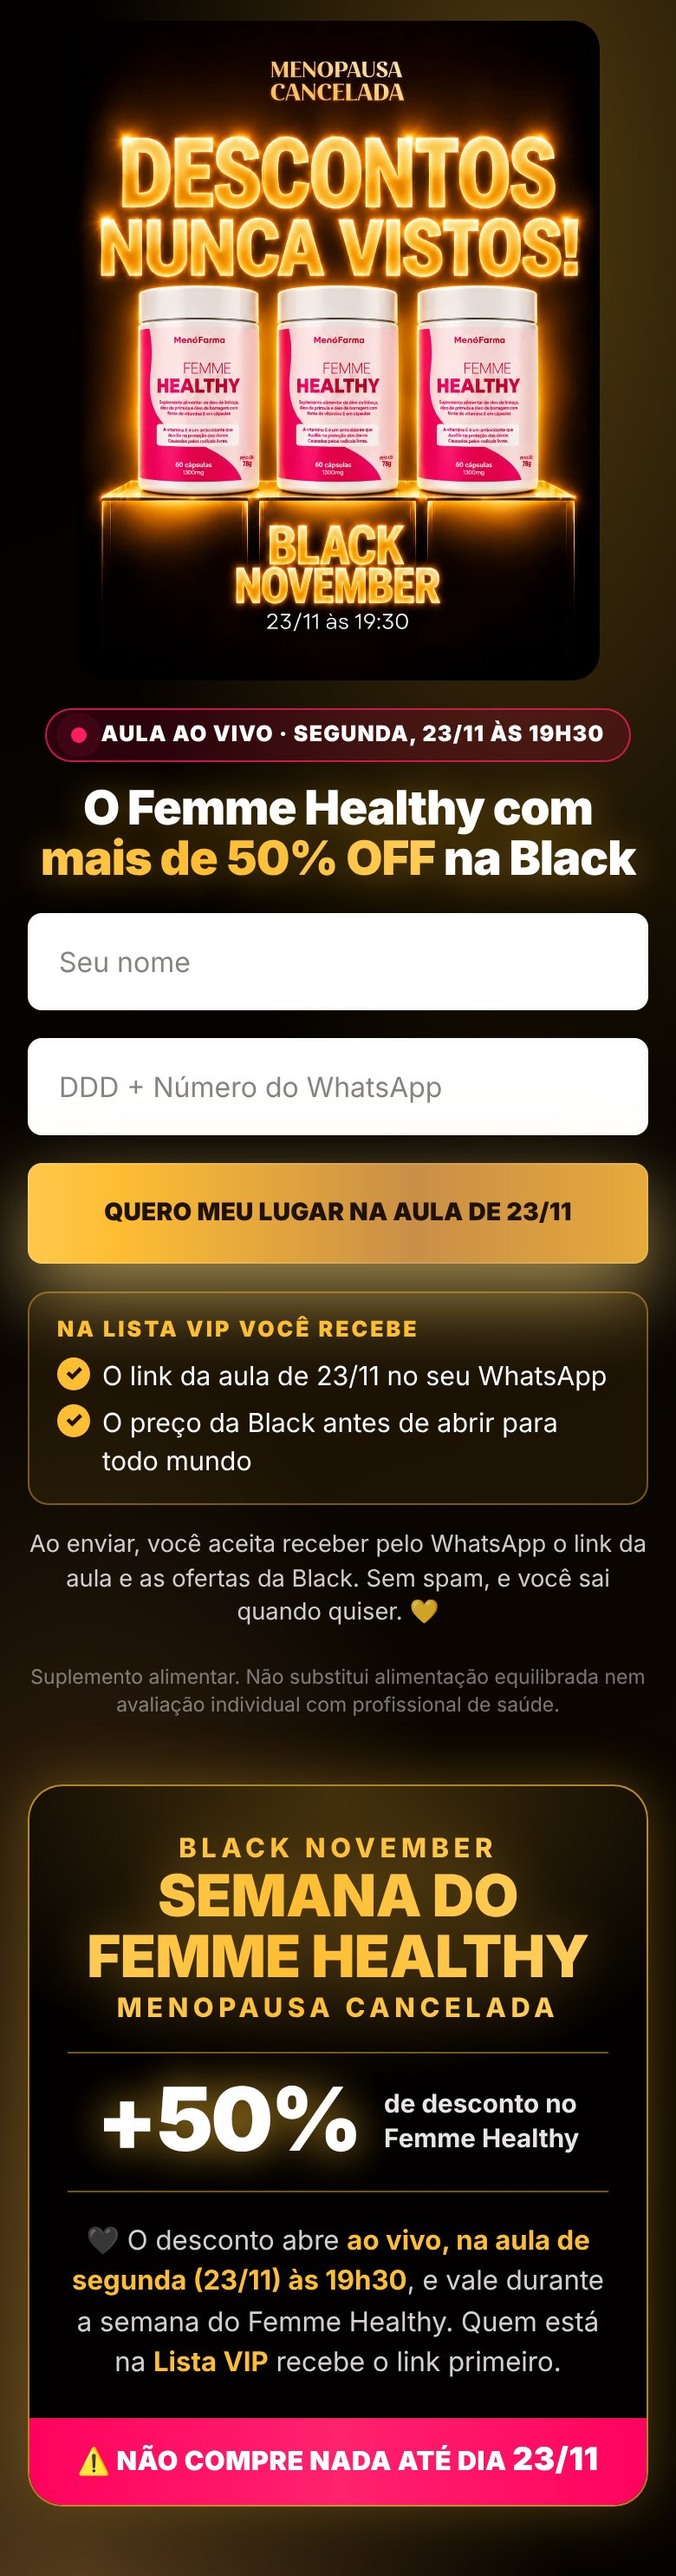
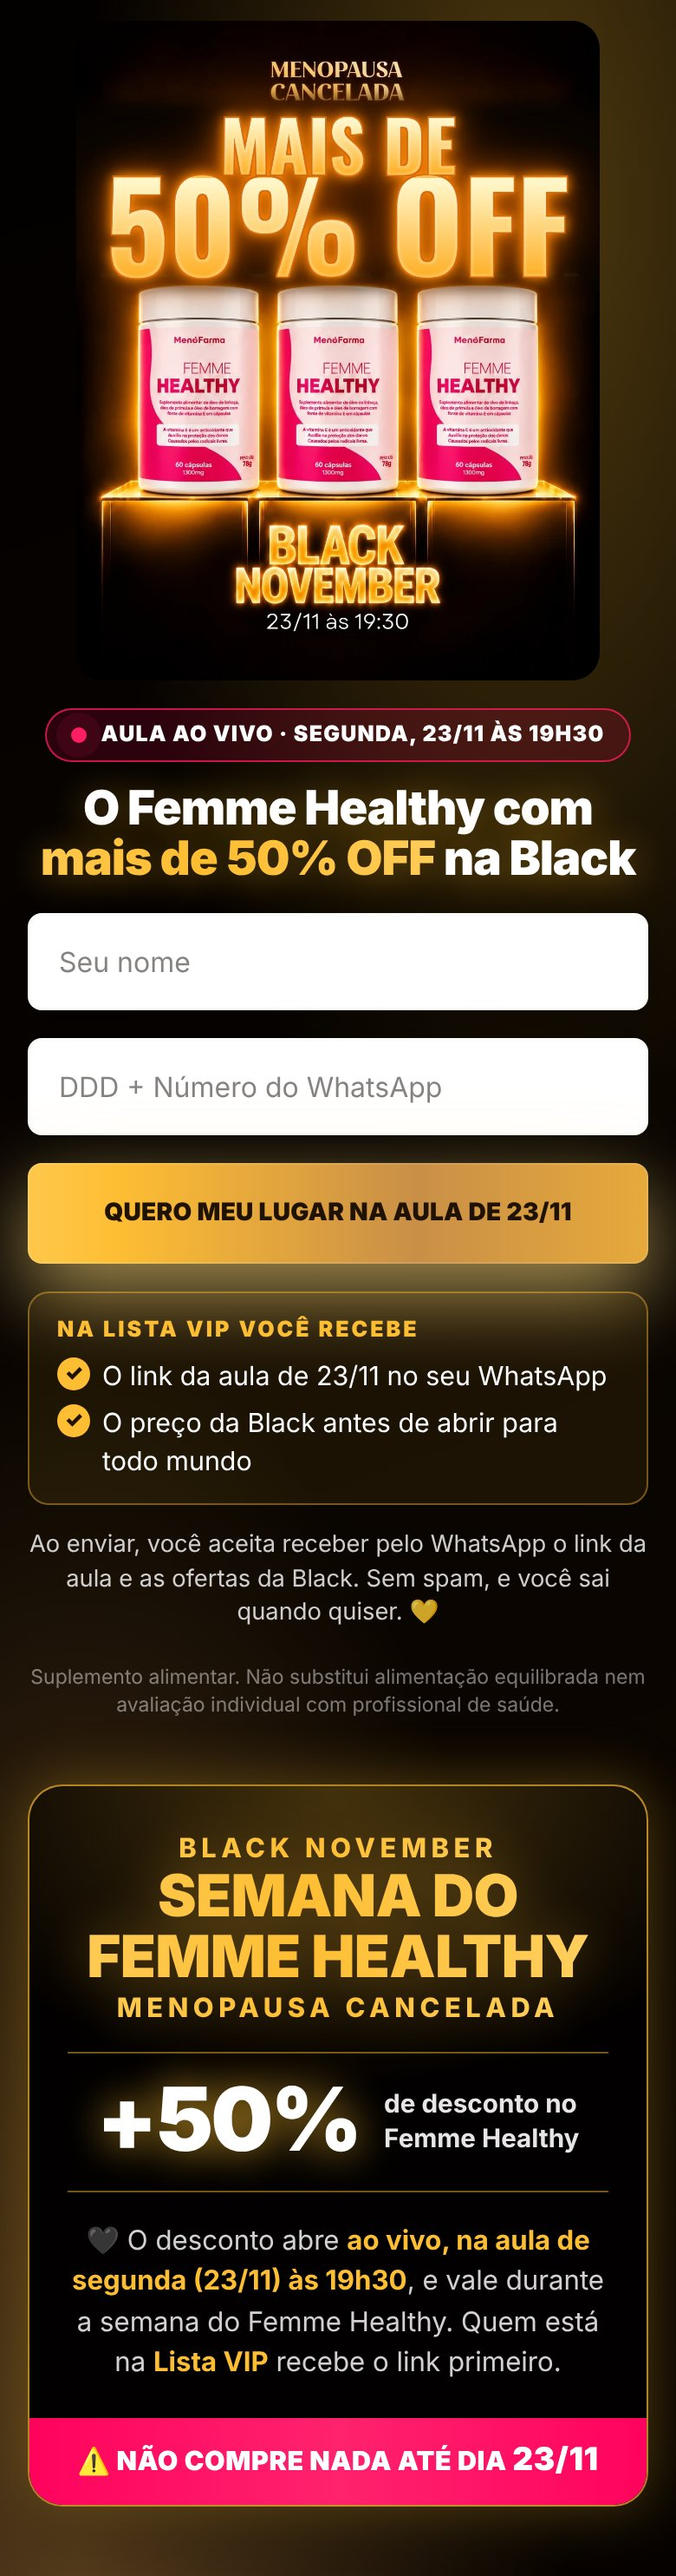
Captura Femme Healthy: headline da imagem trocada para MAIS DE 50% OFF
Claude-Session: https://claude.ai/code/session_01WNQxXnAB95y5RPLTeSNP1L

Changed region(s): [[0.1231, 0.031, 0.8615, 0.124]]

diff --git a/projetos/menopausa-cancelada/06-copy/captura-femme-black/index.html b/projetos/menopausa-cancelada/06-copy/captura-femme-black/index.html
@@ -287,7 +287,7 @@ src="https://www.facebook.com/tr?id=2867941233444745&ev=PageView&noscript=1"
     <div class="hero__inner">
 
       <div class="hero__media fade-in">
-        <img src="femme-2311.webp" alt="Femme Healthy · Black November da Menopausa Cancelada · 23/11 às 19:30" width="1117" height="1408" fetchpriority="high">
+        <img src="femme-2311-50off.webp" alt="Femme Healthy com mais de 50% OFF · Black November da Menopausa Cancelada · 23/11 às 19:30" width="1117" height="1408" fetchpriority="high">
       </div>
 
       <div class="hero__head fade-in">
